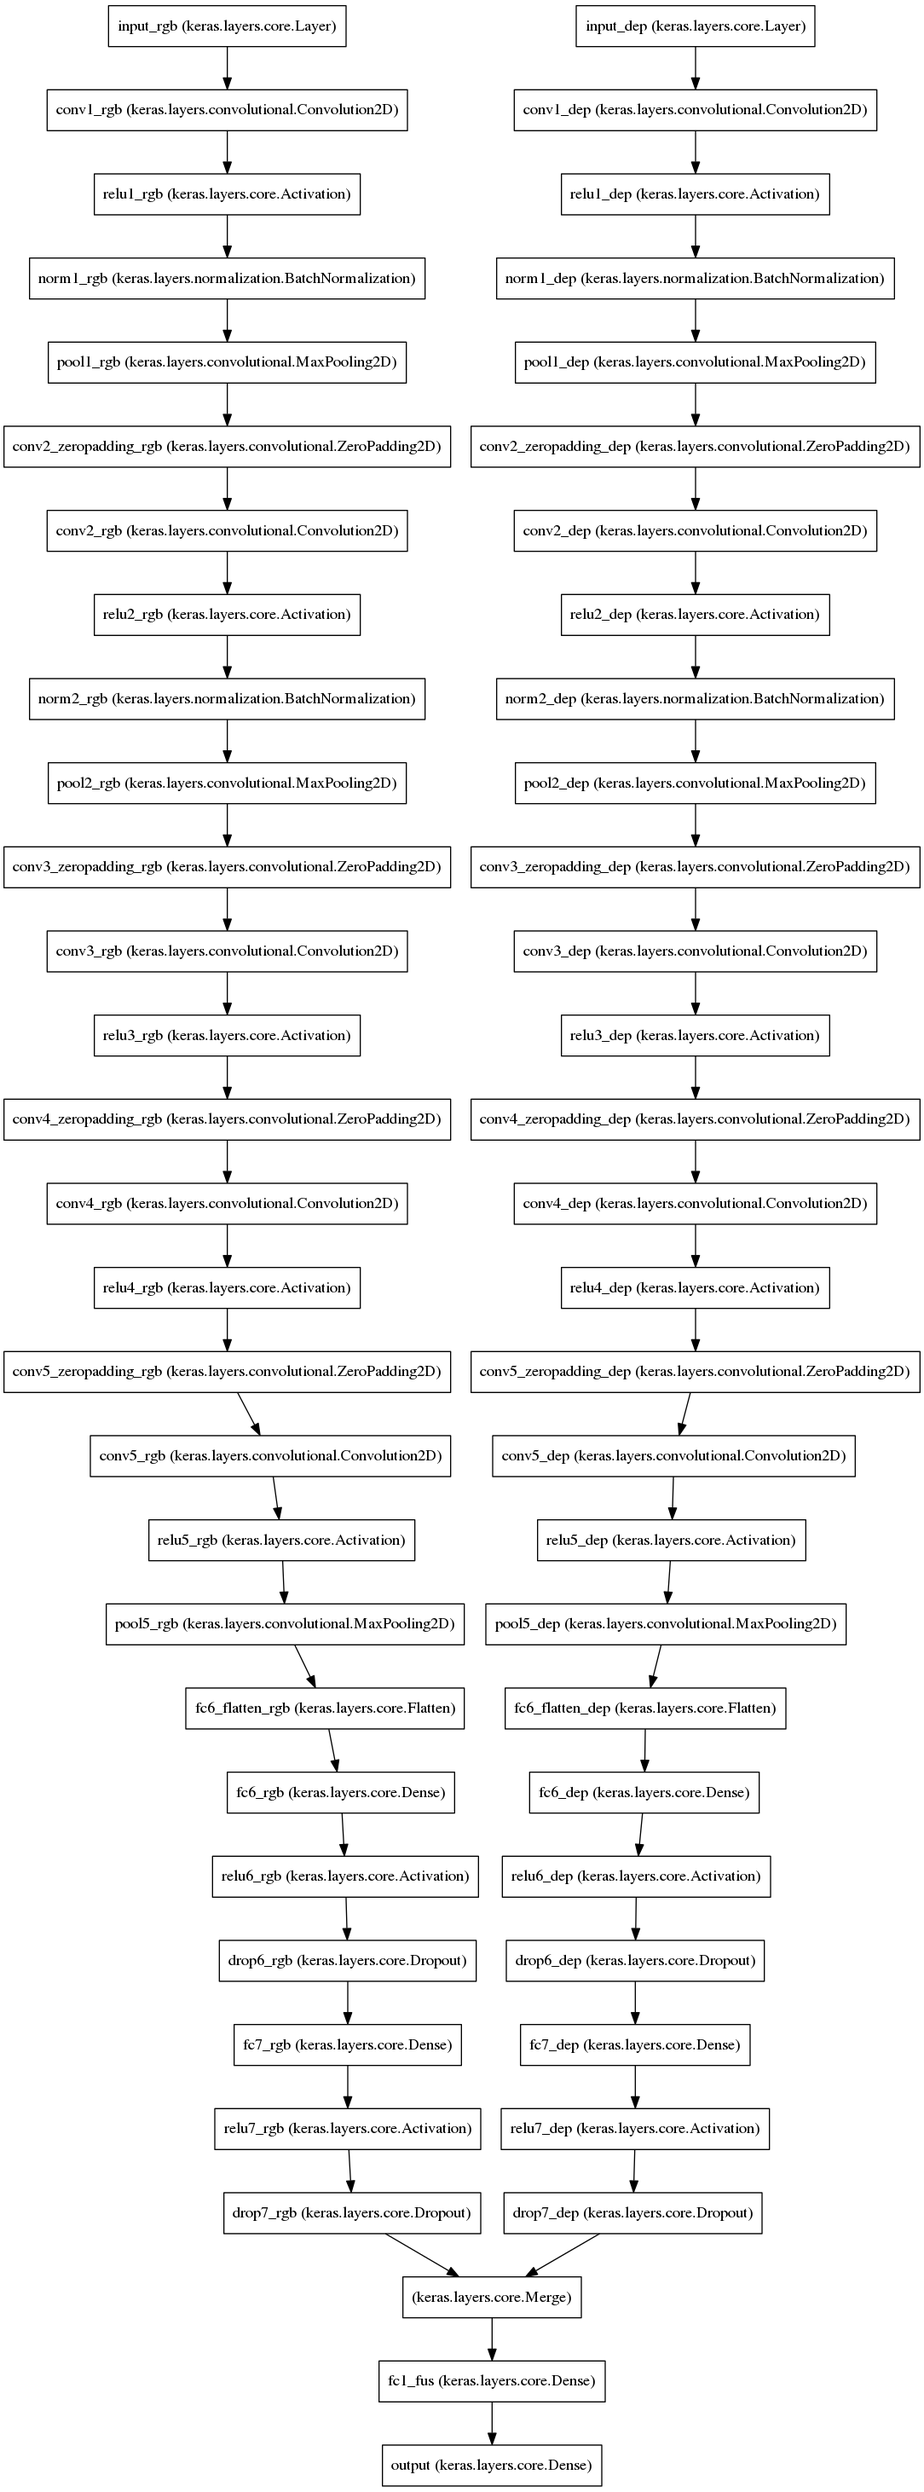
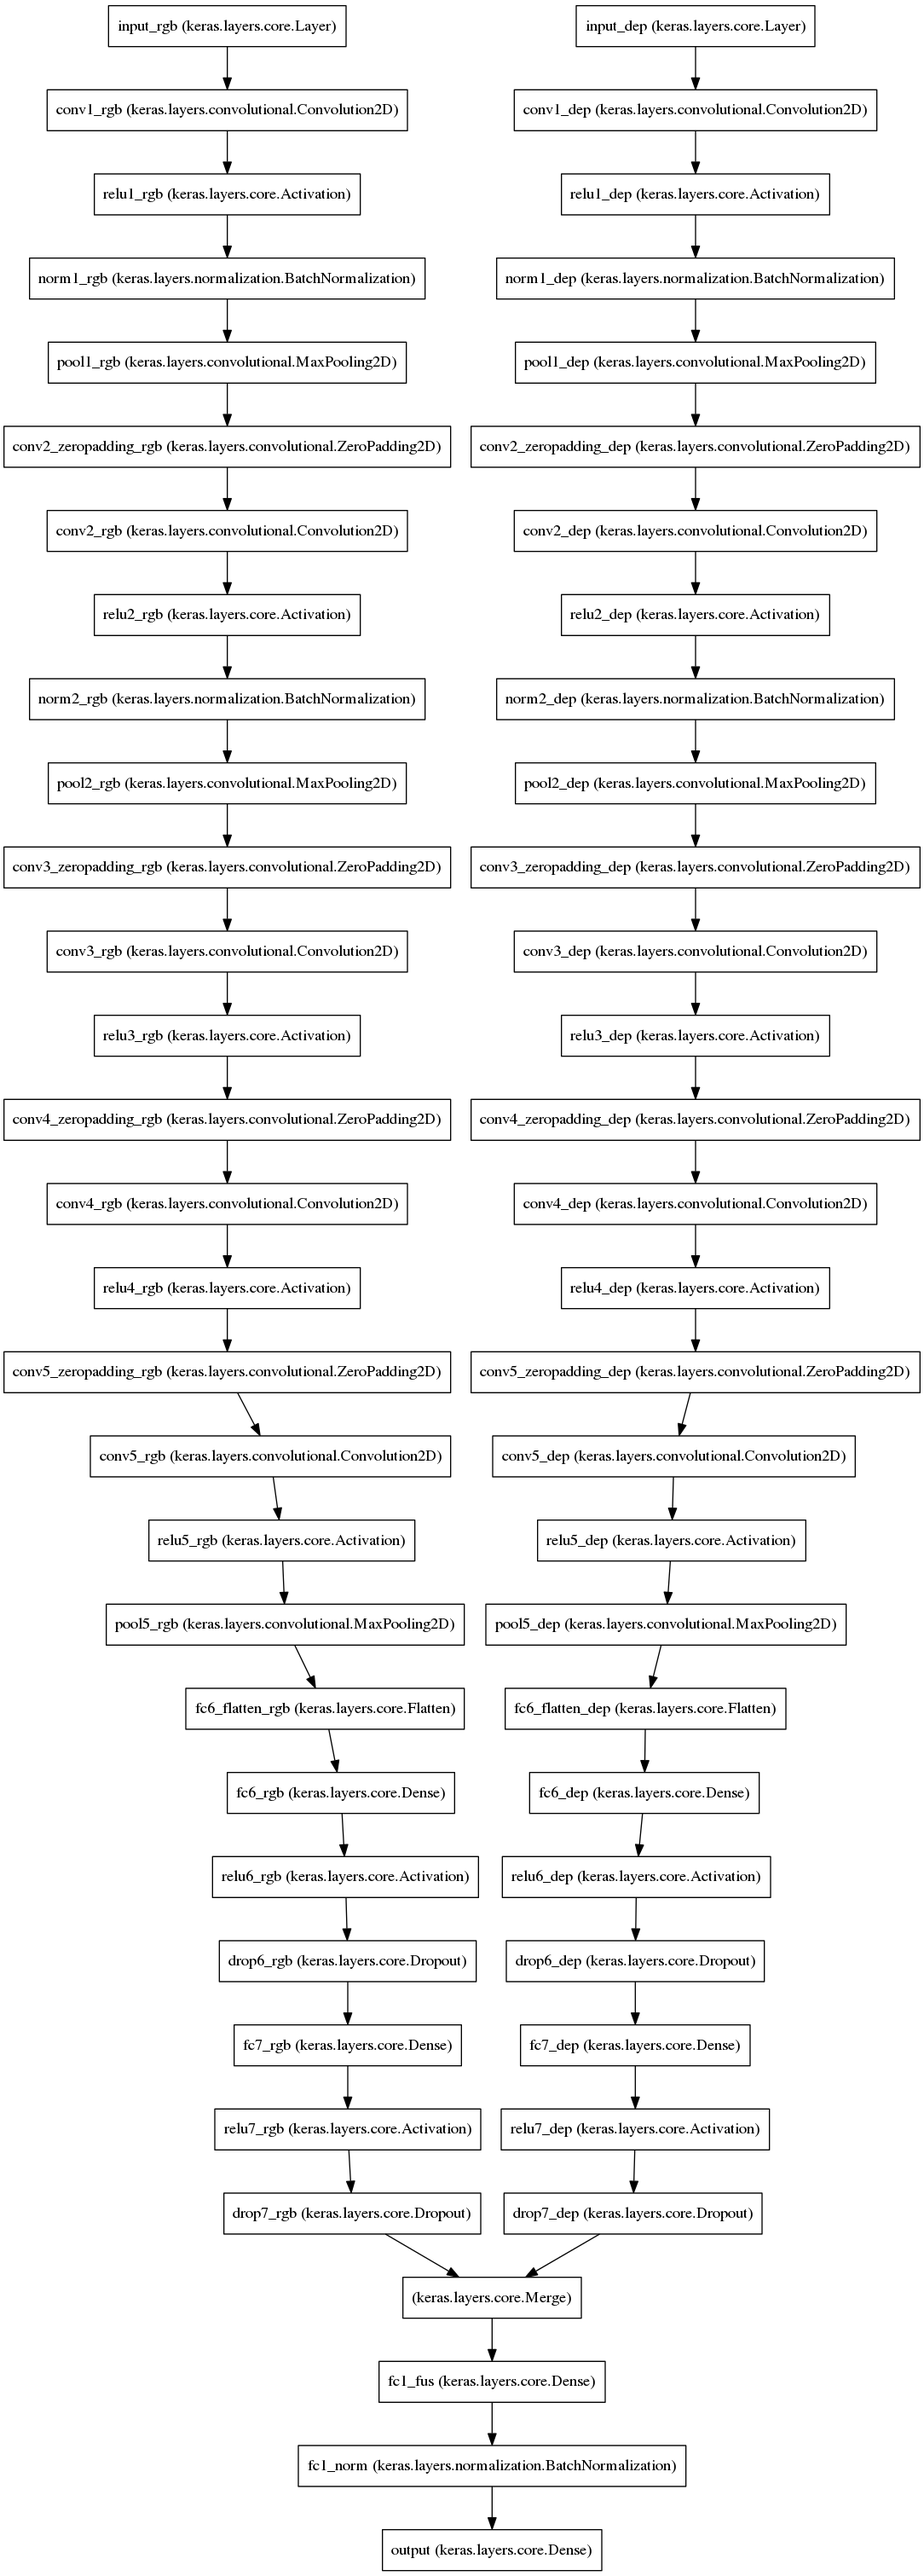
Add inter visualizer and something else

Changed region(s): [[0.0, 0.0, 1.0, 1.0]]

diff --git a/3d_obj_recognition/inter_visualizer.py b/3d_obj_recognition/inter_visualizer.py
@@ -1,0 +1,143 @@
+from keras.models import model_from_json
+import theano
+import EitelModel as eitel
+import data_processor as dtp
+import numpy as np
+import pdb
+import matplotlib.pyplot as plt
+
+import matplotlib.cm as cm
+import numpy.ma as ma
+
+DATA_LOC = '/media/data/washington_dataset/fullset/cropped/'
+LIST_LOC = './lists/'
+
+MODEL_LOC = './models/full/'
+TEST_LIST = 'test_list_full.txt'
+DICT = './lists/dictionary_full.txt'
+
+FUS_MODEL_NAME = 'fusion_model'
+STRUCT_EXT = '.json'
+WEIGHT_EXT = '.h5'
+
+
+def load_model(loc, name):
+    model = model_from_json(open(loc+name+STRUCT_EXT).read())
+    model.load_weights(loc+name+WEIGHT_EXT)
+    return model
+
+
+def visualize_node(model, node):
+    return node_func
+
+
+def make_mosaic(imgs, nrows, ncols, border=1):
+    """
+    Given a set of images with all the same shape, makes a
+    mosaic with nrows and ncols
+    """
+    nimgs = imgs.shape[0]
+    imshape = imgs.shape[1:]
+                    
+    mosaic = ma.masked_all((nrows * imshape[0] + (nrows - 1) * border,\
+            ncols * imshape[1] + (ncols - 1) * border),\
+            dtype=np.float32)
+                               
+    paddedh = imshape[0] + border
+    paddedw = imshape[1] + border
+    for i in xrange(nimgs):
+        row = int(np.floor(i / ncols))
+        col = i % ncols
+                                                
+        mosaic[row * paddedh:row * paddedh + imshape[0],\
+                col * paddedw:col * paddedw + imshape[1]] = imgs[i]
+    return mosaic
+
+
+def make_prediction_matrix(test_samples, classes, func):
+    np.random.shuffle(test_samples)
+    test_samples = test_samples[:200]
+
+    for sample in test_samples:
+        rgb_x, dep_x, y = dtp.load_data([sample], classes, DATA_LOC)
+        out = func(rgb_x, dep_x)
+        if 'pred_mat' not in locals():
+            pred_mat = out
+            ground_truth = y
+        else:
+            pred_mat = np.concatenate((pred_mat, out), axis=0)
+            ground_truth = np.concatenate((ground_truth, y), axis=0)
+    return pred_mat, ground_truth
+
+
+def main():
+    # load data
+    test_samples = dtp.sample_paths_from_list(DATA_LOC, LIST_LOC+TEST_LIST)
+    sample = [test_samples[0]]
+    classes = open(DICT, 'r').read().splitlines()
+    nb_classes = len(classes)
+    rgb_x, dep_x, y = dtp.load_data(sample, classes, DATA_LOC)
+
+    # load model
+    model = load_model(MODEL_LOC, FUS_MODEL_NAME)
+    pdb.set_trace()
+
+    # get node functions
+    node_func1 = theano.function([model.inputs['input_rgb'].get_input(train=False)],\
+            model.nodes['relu1_rgb'].get_output(train=False))
+    node_func2 = theano.function([model.inputs['input_rgb'].get_input(train=False)],\
+            model.nodes['relu5_rgb'].get_output(train=False))
+
+    node_func3 = theano.function([model.inputs['input_dep'].get_input(train=False)],\
+            model.nodes['relu1_dep'].get_output(train=False))
+    node_func4 = theano.function([model.inputs['input_dep'].get_input(train=False)],\
+            model.nodes['relu5_dep'].get_output(train=False))
+
+    node_func5 = theano.function([model.inputs['input_rgb'].get_input(train=False),\
+            model.inputs['input_dep'].get_input(train=False)],\
+            model.nodes['softmax_fus'].get_output(train=False) )
+
+    out1 = np.squeeze(node_func1(rgb_x))
+    out2 = np.squeeze(node_func2(rgb_x))
+    out3 = np.squeeze(node_func3(dep_x))
+    out4 = np.squeeze(node_func4(dep_x))
+    
+    # visualize intermediate nodes
+    mosaic1 = make_mosaic(out1,10,10)
+    fig1 = plt.figure()
+    plt.imshow(mosaic1, cmap=cm.binary)
+    fig1.subtitle = 'relu1_rgb'
+    fig1.savefig('relu1_rgb.png')
+
+    mosaic2 = make_mosaic(out2,16,16)
+    fig2 = plt.figure()
+    plt.imshow(mosaic2, cmap=cm.binary)
+    fig2.subtitle = 'relu5_rgb'
+    fig2.savefig('relu5_rgb')
+
+    mosaic3 = make_mosaic(out3,10,10)
+    fig3 = plt.figure()
+    plt.imshow(mosaic3, cmap=cm.binary)
+    fig3.subtitle = 'relu1_dep'
+    fig3.savefig('relu1_dep.png')
+
+    mosaic4 = make_mosaic(out4,16,16)
+    fig4 = plt.figure()
+    plt.imshow(mosaic4, cmap=cm.binary)
+    fig4.subtitle = 'relu5_dep'
+    fig4.savefig('relu5_dep.png')
+
+    pred_mat, ground_truth = make_prediction_matrix(test_samples, classes, node_func5)
+    fig5 = plt.figure()
+    plt.subplot(1,2,1)
+    plt.imshow(pred_mat)
+    plt.subplot(1,2,2)
+    plt.imshow(ground_truth)
+    #fig5.subtitle('prediction')
+    fig5.savefig('prediction.png')
+
+    plt.show()
+
+
+if __name__ == '__main__':
+    main()

diff --git a/3d_obj_recognition/EitelModel.py b/3d_obj_recognition/EitelModel.py
@@ -19,7 +19,7 @@ def weights_from_graph(pretrained, tag):
     pre_fc7 = pretrained.nodes.get('fc7'+tag).get_weights()
     return (pre_conv1,pre_conv2,pre_conv3,pre_conv4,pre_conv5,pre_fc6,pre_fc7)
 
-
+'''
 def weights_from_sequential(model):
     pre_conv1 = model.layers[0].get_weights()
     pre_conv2 = model.layers[5].get_weights()
@@ -29,6 +29,7 @@ def weights_from_sequential(model):
     pre_fc6 = model.layers[20].get_weights()
     pre_fc7 = model.layers[23].get_weights()
     return (pre_conv1,pre_conv2,pre_conv3,pre_conv4,pre_conv5,pre_fc6,pre_fc7)
+'''
 
 
 def create_single_stream(nb_classes, inmodel, tag):
@@ -150,7 +151,6 @@ def create_single_stream(nb_classes, inmodel, tag):
     #model.add(relu7)
     #model.add(drop7)
 
-    #if mode==0: # from pretrained AlexNet
     # classifier layer
     fc8 = Dense(nb_classes)
     output_loss = Activation('softmax', name='output_loss')
@@ -253,35 +253,25 @@ def construct_branch(model, branch, tag):
     return model
 
 def create_model_merge(in_rgb, in_dep, nb_classes):
-    #rgb_stream = create_single_stream(nb_classes, in_rgb, mode=1, tag='_rgb')
-    #dep_stream = create_single_stream(nb_classes, in_dep, mode=1, tag='_dep')
-
     model = Graph()
     model = construct_branch(model, in_rgb, '_rgb')
     model = construct_branch(model, in_dep, '_dep')
 
     # fc1-fus layer
-    #fc1_fus = Merge([rgb_stream, dep_stream], mode='concat')
-    #dense_fus = Dense(4096)
-    #drop_fus = Dropout(0.5)
-
-    model.add_node(Dense(4096), name='fc1_fus', inputs=['drop7_rgb', 'drop7_dep'], merge_mode='concat')
+    model.add_node(Dense(100), name='fc1_fus', inputs=['drop7_rgb', 'drop7_dep'], merge_mode='concat')
+    #model.add_node(Dense(4096), name='fc1_fus', inputs=['relu7_rgb', 'relu7_dep'], merge_mode='concat')
+    model.add_node(BatchNormalization(), name='fc1_norm', input='fc1_fus')
     #model.add_node(Dropout(0.5), name='drop_fus', input='fc1_fus')
-
-    #model.add(fc1_fus)
-    #model.add(dense_fus)
-    #model.add(drop_fus)
     
     # classifier layer
     #model.add(Dense(nb_classes, activation='softmax'))
-    model.add_node(Dense(nb_classes, activation='softmax'), name='softmax_fus', input='fc1_fus')
+    model.add_node(Dense(nb_classes, activation='softmax'), name='softmax_fus', input='fc1_norm')
     model.add_output(name='output', input='softmax_fus')
 
     # compile model
-    sgd = SGD(lr=0.00003, momentum=0.9, decay=1e-6, nesterov=True)
+    sgd = SGD(lr=0.0001, momentum=0.9, decay=1e-6, nesterov=True)
     model.compile(loss={'output':'categorical_crossentropy'}, optimizer=sgd)
-    #model.compile(loss='categorical_crossentropy', optimizer=sgd)
-    #model.compile(loss='categorical_crossentropy', optimizer='adagrad')
+    #model.compile(loss={'output':'categorical_crossentropy'}, optimizer='adagrad')
 
     return model
 

diff --git a/3d_obj_recognition/train_model.py b/3d_obj_recognition/train_model.py
@@ -57,7 +57,7 @@ def save_model(model, name):
     model.save_weights(MODEL_LOC+name+WEIGHT_EXT, overwrite=True)
 
 
-def load_model(loc, name, use_marcbs=False):
+def load_model(loc, name):
     '''
     if use_marcbs:
         model = marcbs_model_from_json(open(loc+name+STRUCT_EXT).read())
@@ -80,6 +80,7 @@ def switch_input(rgb_x, dep_x, mode):
     elif mode == 2:
         x = [rgb_x, dep_x]
     return x
+
 
 def gen_graph_input_params(rgb_x, dep_x, mode):
     if mode==0:
@@ -108,13 +109,12 @@ def train_model(model, mode, batch_size, train_samples, eval_samples, classes):
     mode = 1: use only dep
     mode = 2: use both rgb and dep
     '''
-
     nb_epoch = 1000
     patience = 5
     min_loss = sys.maxint
     max_accuracy = 0
     nb_static_epoch = 0
-    epsilon = 0.01
+    epsilon = 0.003
 
     nb_train_samples = len(train_samples)
     nb_eval_samples  = len(eval_samples)
@@ -141,7 +141,7 @@ def train_model(model, mode, batch_size, train_samples, eval_samples, classes):
 
         # training---------------------------------------------------------
         print 'Training phase'
-        f.write('Training phase--------------------------------\n')
+        f.write('Training phase------------------------------------------------\n')
 
         train_bar.start()
         start_time = time.time()
@@ -174,7 +174,7 @@ def train_model(model, mode, batch_size, train_samples, eval_samples, classes):
 
         # evaluating-------------------------------------------------------
         print 'Evaluation phase'
-        f.write('Evaluation phase------------------------------\n')
+        f.write('Evaluation phase-----------------------------------------------\n')
         avg_loss = 0
         avg_accuracy = 0
         eval_bar.start()
@@ -234,10 +234,10 @@ def main():
     eval_samples  = dtp.sample_paths_from_list(DATA_LOC, LIST_LOC+EVAL_LIST)
     classes = open(DICT, 'r+').read().splitlines()
     nb_classes = len(classes)
-    batch_size = 30
+    batch_size = 180
 
     # load pretrained models----------------------------------------------------
-    pretrained = load_model(PRETRAINED_LOC, PRETRAINED_NAME, use_marcbs=True)
+    pretrained = load_model(PRETRAINED_LOC, PRETRAINED_NAME)
 
     # generate RGB stream model------------------------------------------------------
     if not model_exist(RGB_MODEL_NAME):
@@ -276,7 +276,7 @@ def main():
     del dep_stream
     plot(fusion_model, 'fusion_model.png')
 
-    batch_size=10
+    batch_size=200
     fusion_model = train_model(fusion_model, 2, batch_size, train_samples, eval_samples, classes)
     if SAVE_MODEL:
         save_model(fusion_model, FUS_MODEL_NAME)

diff --git a/3d_obj_recognition/test_model.py b/3d_obj_recognition/test_model.py
@@ -22,7 +22,7 @@ STRUCT_EXT     = '.json'
 WEIGHT_EXT     = '.h5'
 
 
-def load_model(loc, name, use_marcbs=False):
+def load_model(loc, name):
     model = model_from_json(open(loc+name+STRUCT_EXT).read())
     model.load_weights(loc+name+WEIGHT_EXT)
     return model
@@ -78,7 +78,7 @@ def test_model(model):
 
 
 def main():
-   # load and test models
+    # load and test models
     rgb_model = load_model(MODEL_LOC, RGB_MODEL_NAME)
     print 'Testing rgb model...'
     test_model(rgb_model)
